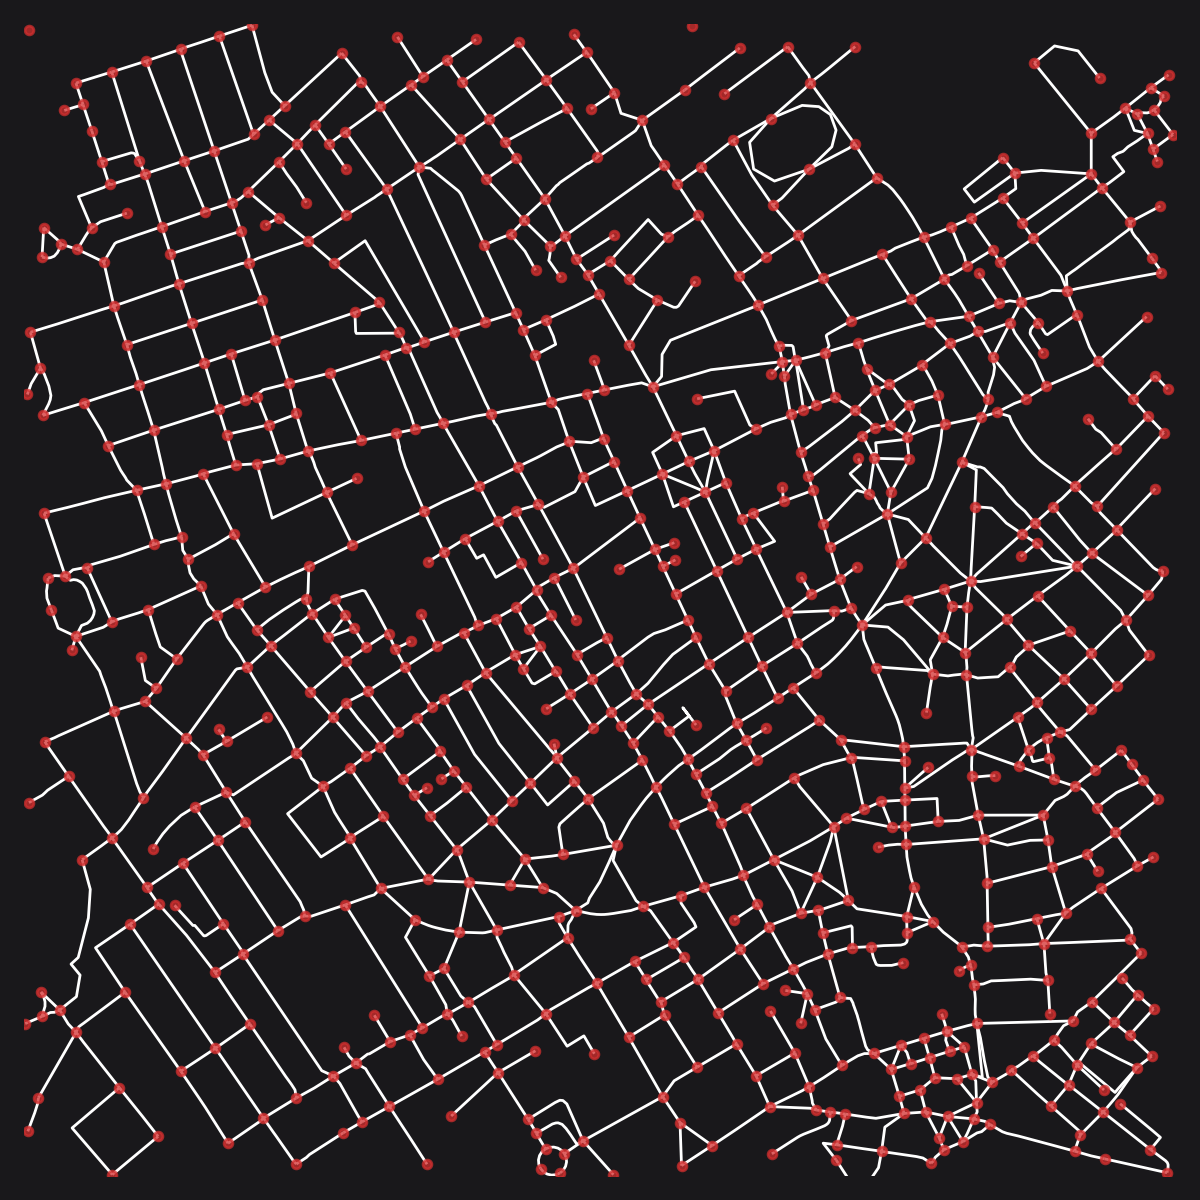
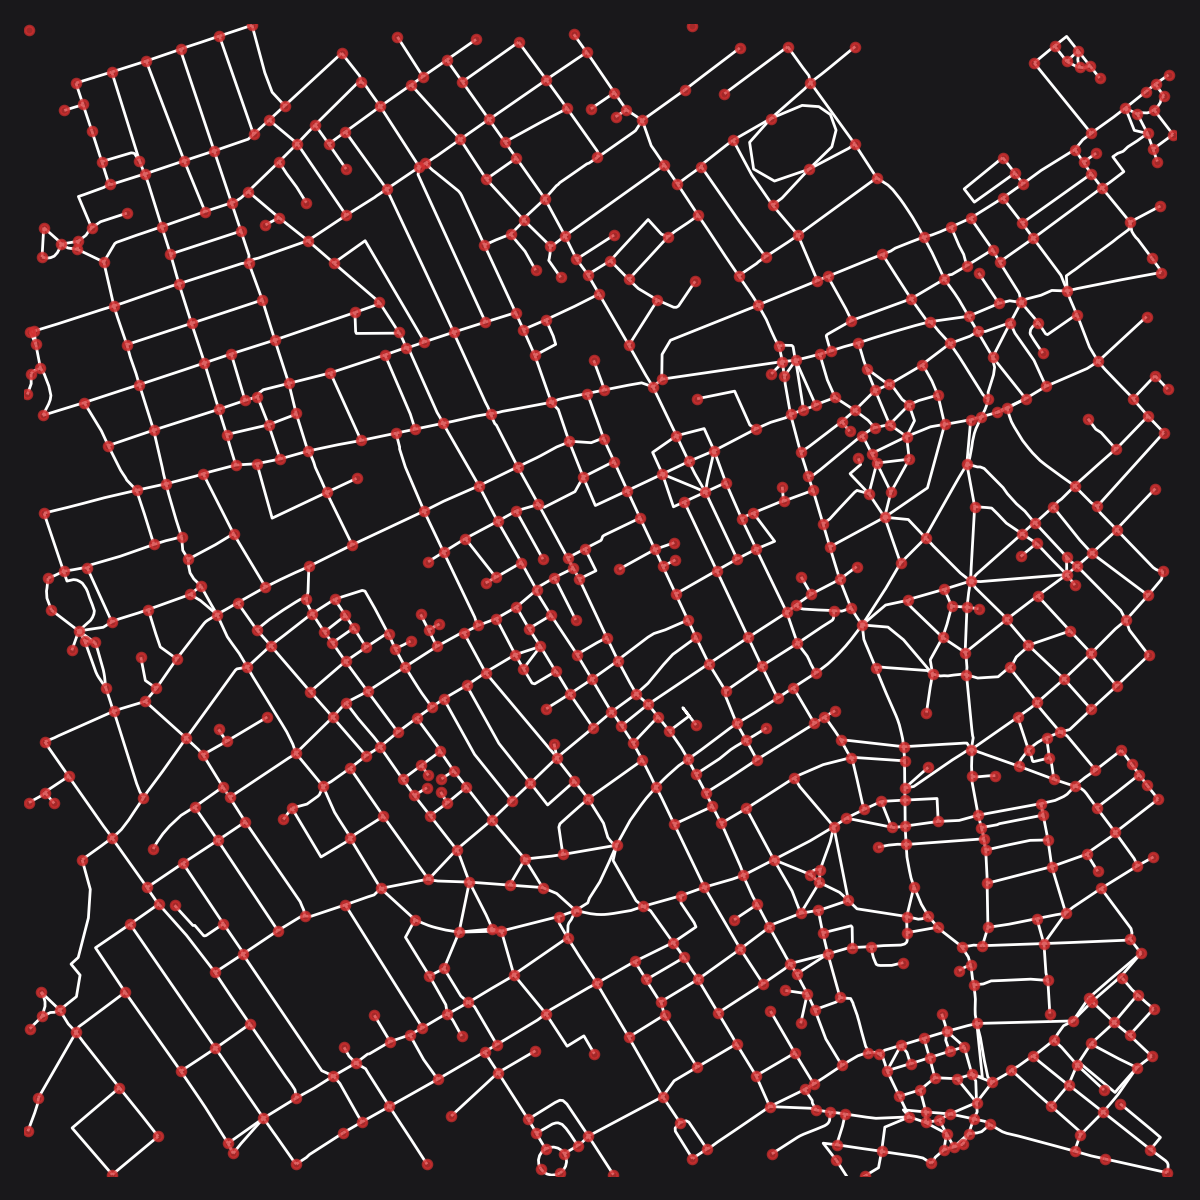
changes default to consolidate for only indirect for parallel

diff --git a/pysrc/cityseer/tools/io.py b/pysrc/cityseer/tools/io.py
@@ -384,13 +384,19 @@ def osm_graph_from_poly(
     if simplify:
         graph_crs = graphs.nx_remove_dangling_nodes(graph_crs, remove_disconnected=remove_disconnected)
         graph_crs = graphs.nx_consolidate_nodes(
-            graph_crs, buffer_dist=crawl_consolidate_dist, crawl=True, contains_buffer_dist=contains_buffer_dist
+            graph_crs,
+            buffer_dist=crawl_consolidate_dist,
+            crawl=True,
+            contains_buffer_dist=contains_buffer_dist,
         )
         graph_crs = graphs.nx_split_opposing_geoms(
             graph_crs, buffer_dist=parallel_consolidate_dist, contains_buffer_dist=contains_buffer_dist
         )
         graph_crs = graphs.nx_consolidate_nodes(
-            graph_crs, buffer_dist=parallel_consolidate_dist, contains_buffer_dist=contains_buffer_dist
+            graph_crs,
+            buffer_dist=parallel_consolidate_dist,
+            contains_buffer_dist=contains_buffer_dist,
+            neighbour_policy="indirect",
         )
         graph_crs = graphs.nx_remove_filler_nodes(graph_crs)
         if iron_edges:
@@ -399,7 +405,10 @@ def osm_graph_from_poly(
             graph_crs, buffer_dist=parallel_consolidate_dist, contains_buffer_dist=contains_buffer_dist
         )
         graph_crs = graphs.nx_consolidate_nodes(
-            graph_crs, buffer_dist=parallel_consolidate_dist, contains_buffer_dist=contains_buffer_dist
+            graph_crs,
+            buffer_dist=parallel_consolidate_dist,
+            contains_buffer_dist=contains_buffer_dist,
+            neighbour_policy="indirect",
         )
         graph_crs = graphs.nx_remove_filler_nodes(graph_crs)
         if iron_edges:
